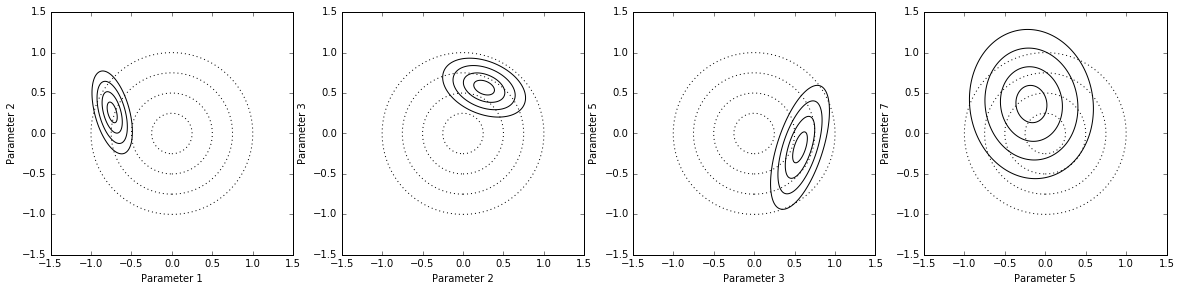
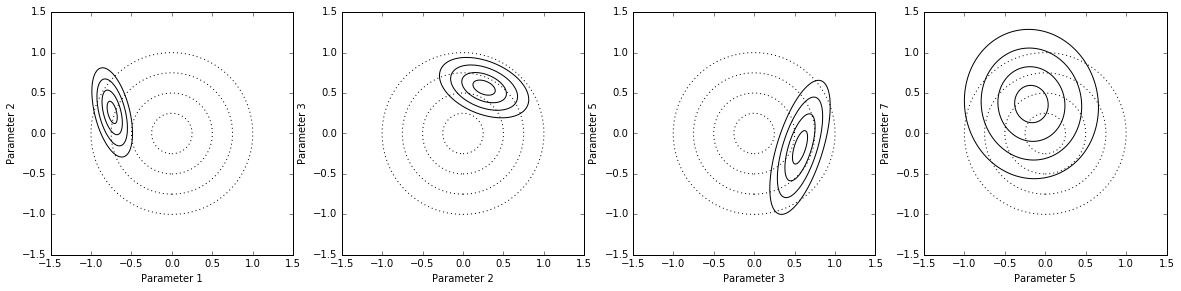
Updated toy_model_example.ipynb to reflect fixed bug in Project.calculate_entropy()

diff --git a/searchindex.js b/searchindex.js
@@ -1,1 +1,1 @@
-Search.setIndex({docnames:["cantera","generic_chem","index","toy","toy_model_example"],envversion:50,filenames:["cantera.rst","generic_chem.rst","index.rst","toy.rst","toy_model_example.ipynb"],objects:{"":{cantera_utils:[1,2,0,"-"]},"cantera_chemistry_model.CanteraChemistryModel":{blank_chemistry:[1,1,1,""],get_model_parameter_info:[1,1,1,""],get_parameter:[1,1,1,""],initialize_chemistry:[1,1,1,""],perturb_parameter:[1,1,1,""],prepare_chemistry:[1,1,1,""],reset_model:[1,1,1,""],sensitivity:[1,1,1,""]},"toy.toy_model":{evaluate:[3,1,1,""],get_model_parameter_info:[3,1,1,""],get_parameter:[3,1,1,""],perturb_parameter:[3,1,1,""],reset_model:[3,1,1,""],sensitivity:[3,1,1,""]},cantera_chemistry_model:{CanteraChemistryModel:[1,0,1,""]},cantera_utils:{measurement_initialize:[1,3,1,""],measurement_initialize_pd:[1,3,1,""]},toy:{toy_app:[3,0,1,""],toy_initialize:[3,3,1,""],toy_model:[3,0,1,""]}},objnames:{"0":["py","class","Python class"],"1":["py","method","Python method"],"2":["py","module","Python module"],"3":["py","function","Python function"]},objtypes:{"0":"py:class","1":"py:method","2":"py:module","3":"py:function"},terms:{"00000e":4,"0000e":[3,4],"0001e":4,"00049e":4,"00981e":4,"05000e":4,"09it":4,"11956e":4,"11a":0,"11b":0,"11c":0,"11d":0,"16133e":4,"16324e":4,"18253e":4,"18617e":4,"19780e":4,"1a1":0,"1a2":0,"1a3":0,"1a4":0,"1a5":0,"1a6":0,"21471e":4,"21546e":4,"21962e":4,"22021e":4,"22081e":4,"22140e":[3,4],"22200e":4,"22229e":4,"22260e":4,"22319e":4,"22337e":4,"22446e":4,"22554e":4,"22663e":4,"22678e":4,"22738e":4,"22771e":4,"22880e":4,"23643e":4,"24547e":4,"25769e":4,"26940e":4,"28247e":4,"29165e":4,"31a":0,"31b":0,"31it":4,"32979e":4,"33682e":4,"33it":4,"37it":4,"38205e":4,"46140e":4,"48009e":4,"48276e":4,"48544e":4,"48812e":4,"49079e":4,"49347e":4,"49616e":4,"51496e":4,"51it":4,"52381e":4,"57021e":4,"59627e":4,"5it":4,"60116e":4,"61686e":4,"64070e":4,"64631e":4,"64711e":4,"64792e":4,"64872e":4,"64953e":4,"65033e":4,"65114e":4,"65115e":4,"65679e":4,"68121e":4,"69770e":4,"73116e":4,"7580e":4,"7581e":4,"7619e":4,"76252e":4,"8557e":4,"90289e":4,"9035e":4,"9274e":4,"9516e":4,"99512e":4,"9998e":4,"9999e":4,"abstract":1,"case":2,"class":2,"default":0,"final":[],"float":[1,3],"function":2,"int":[1,3],"new":[],"public":2,"return":[1,3],"true":[1,3],"while":2,For:0,Its:[],Not:[],One:[2,3],Such:[],The:[1,2,4],Then:[],There:[0,3],These:[0,1],a_term:[],aa35fc590191:[],abl:2,about:[1,3],abov:3,access:1,act:4,activ:1,active_paramet:4,active_parameter_uncertainti:4,actual:4,add:0,added:0,addit:[0,1,3],adventur:2,after:[],against:2,air:0,algorithm:[],all:[0,1,3,4],allow:3,almost:3,along:3,alpha:4,alreadi:[3,4],also:[0,1,2,3],altern:[],although:0,among:[],amount:[1,3],analys:[],analysi:[0,1,2,3],ani:[0,1,3],anoth:3,apo:[],app_initialize_funct:[],appear:0,applic:[2,3,4],application_initi:[3,4],application_list:[3,4],arair:0,arbitrari:0,argon:0,argument:3,arrai:[1,3,4],array_lik:1,associ:3,assum:[],asterisk:0,atmospher:[0,1],attribut:[],author:2,automat:[],avail:[1,3],axi:[],b_term:[],back:[],backward:0,base:[0,1,2],batch:[1,3],becaus:[1,3,4],been:3,begin:3,behavior:0,behind:[],being:[2,3],below:0,between:[],bind:2,blank:0,blank_chemistri:1,bodi:1,bool:[],both:4,bound:3,box:2,build:3,c2h2:0,c2h6:0,c3h8:0,c_term:[],calcul:[1,3],calculate_entropi:[],call:[0,1,3,4],can:[0,1,2,3],cannot:[1,2],cantera:2,cantera_chemistry_model:1,cantera_util:1,canterachemistrymodel:[0,1],certain:[0,1],ch4:0,chang:[0,1,2,3],charact:3,check:1,chemistri:2,chemistry_model:[0,1],cite:2,closer:3,code:2,coeffici:[],column:3,common:[0,1],compar:3,compat:0,compil:2,complet:[2,3],complex:2,composit:1,comput:[],computed_unc:[],conc:0,condit:0,conduct:0,consequ:3,consid:1,consist:0,constant:0,constrain:[0,2,3,4],constraint:0,contain:[0,1,3],continu:[],convert:1,correspond:[0,3],corrspond:[],cov:[],cov_x:[],covari:[],covariance_x:[],creat:[0,1,2],creation:[],crit:0,crit_denom:0,crit_id:[],crit_numer:[],crit_spec:0,crit_val:0,criterion:[],critic:0,critical_funct:[],critical_last:[],critical_ris:[],critical_speci:0,critical_species_product:[],critical_valu:[],cti:0,current:[],cutoff:[],d_term:[],data:3,databas:[0,1,2,3],datafram:1,david:2,decomposit:[],defin:[0,1,2],definit:0,demonstr:[0,2,3],denom:0,denomin:0,densiti:[],depend:[0,3],deriv:3,describ:3,descript:[],design:[0,2,3],detail:2,detect:2,determin:[0,2,3],develop:[2,3],dict:[1,3],dictionari:3,differ:[0,3],dil:0,diluent:0,directli:3,disk:[],distribut:2,divid:[],document:[2,3],doe:[0,1,2],doesn:4,domain:2,domain_length:[],done:[],download:2,dtype:[3,4],dure:[1,3],each:[0,1,3,4],easier:1,effici:[1,2],either:0,element:[],els:1,employe:2,empti:3,enclos:0,energi:1,enough:0,ensur:0,entir:3,entiti:3,entropi:4,equal:3,equat:3,equival:[0,3,4],eras:1,eratur:0,erimental_:0,error:3,ertainti:0,especi:[],estim:4,etc:0,evalu:[0,1,3],evaluate_respons:[],evaluate_sensit:4,evaluate_uncertainti:[],event:[],ever:[],exactli:[0,4],exampl:2,excel:[0,1,3],except:[0,3],exist:1,exp:0,exp_unc:0,exp_val:0,experi:[0,3,4],experiment:[0,1,2,3],experiment_numb:[3,4],expert:2,explain:3,ext:[],extern:[],factor:[1,3],factors_list:4,fall:0,fals:[1,4],februari:2,fig:4,file:[1,2,3],file_with_my_appl:[],file_with_my_measur:[],filenam:[1,3],find:0,find_active_paramet:[3,4],find_sensit:[3,4],first:0,five:3,fix:4,flag:[],flame:[1,2],flame_spe:[],flamespe:0,fls:0,flux:4,follow:[0,1,2,3],form:[0,3],found:2,fraction:0,fration:[],free:0,freeflam:0,freeform:3,freeli:0,from:[0,2,3],fuel1:0,fuel2:0,fuel3:0,fuel4:0,fuel:0,func:[],gas:[0,1],gener:[2,3],generic_critical_funct:[],get:[1,3],get_ipython:[],get_model_parameter_info:[1,3,4],get_paramet:[1,3],get_parameter_info:3,github:2,give:[0,3],given:[0,3],gradient:[],greater:[],gri30:0,grid:[],guarante:3,halv:[],hard:3,has:[2,3],have:[0,1,3,4],header:[0,3],here:[],heterogen:2,high:1,highli:2,highlight:3,home:2,hopefulli:2,host:3,how:[0,2,3],howev:[],ical_:0,idealgasreactor:[],ident:3,identifi:[0,1,2,3],ies:0,ign:0,ignit:[],ignor:0,ignore_restart:[],imagin:3,impact:[],implement:[0,1,2],importerror:[],inat:0,includ:1,inconsist:[2,4],index:2,ineffici:[],inform:[1,3,4],inital_timestep:[],initalize_reactor:[],initi:2,initial_covari:[],initial_guess:[],initial_point:[],initial_timestep:[],initial_x:[],initialize_chemistri:1,initialize_funct:[3,4],initialize_reactor:1,inlin:4,input:[],insofar:[],instanc:0,instanti:[1,3],instead:2,institut:2,integr:0,integration_tim:[],intend:[0,2,3],intent:[],interact:3,interfac:2,intern:1,intial:[],ipython:[],item:[],iter:[3,4],ith:[],its:[1,2,3,4],joint:[],js2:0,keep_go:[],kei:[1,3],kelvin:[0,1],keyword:0,kind:0,kinet:2,know:2,known:3,laminar:2,larg:[],last:2,later:[],least:0,left:0,len:[],length:[],less:0,let:2,level:[],levenberg:[],licens:2,like:[0,3],limit:1,line:[],linear:[],list:[0,1,3,4],load:[],load_restart:[],log:[1,3],logarithm:[],logfil:[1,3],logic:[],loglevel:[3,4],look:3,low:[1,4],lower:3,magic:[],mai:[0,2],make:[1,2],make_respons:4,mani:[],manion:2,mark:0,marquardt:[],matplotlib:4,matrix:3,matter:0,maxim:[],maximum:0,mdlunc:4,mdlval:4,mea:4,mean:2,measur:[0,1,2],measurement_initi:[1,3,4],measurement_initialize_pd:[0,1],measurement_list:[3,4],member:[1,3],metadata:3,meter:[],method:0,methodolog:2,microsecond:[],might:2,mimic:[],mixtur:0,model:2,model_parameter_info:[1,3],model_valu:[1,3],modif:2,modifi:[0,1,2,3],modul:2,mole:0,more:[2,4],most:[3,4],move:[],much:4,multipl:2,mum:2,mumpc:[3,4],mumpce_pi:4,mumpce_toy_app:[3,4],mumpce_toy_experi:[3,4],must:[0,1,3],mxylen:0,my_app:3,my_appl:[],my_initi:[],my_measur:3,my_model:[3,4],my_project:[3,4],my_project_with_init:4,my_uncertainti:[],name:[0,2,3,4],nation:2,ndarrai:1,necessari:2,need:0,neg:0,network:[],new_valu:1,nist:2,nitrogen:0,no_effici:1,no_energi:1,no_falloff:1,nomin:3,none:[0,1,3],normal:[1,3,4],note:2,now:3,npz:[],number:[0,1,3],number_paramet:[],numer:[0,3],numpi:4,object:[0,1,3,4],occur:0,off:[],often:2,omit:0,onc:3,one:[0,3],onli:[0,3],optim:[2,3],optimal_timestep:[],option:0,optunc:4,optval:4,order:[0,2,3],organ:2,origin:[1,2,3],other:[0,1,2,3],otherwis:0,out:[2,4],outlier:[2,3,4],output:[1,2,3],outsid:[],over:4,overwritten:[],own:2,oxid:0,oxygen:0,packag:[1,2],page:2,pair:[0,3],panda:1,paper:2,parallel:[],param:[3,4],paramet:[0,1,2,3],parameter_id:[1,3],parameter_list:[1,3],parameter_nam:[3,4],parameter_numb:[3,4],parameter_uncertainti:[3,4],parameter_valu:[1,3],parametr:[],paremet:[],parenthes:0,pars:[0,3],parser:0,part:[],particular:[0,2,3],pass:[],patm:1,pc3h4:0,pce:2,per:0,perform:[],permit:1,perturb:[1,3,4],perturb_paramet:[1,3],phase:[0,1],physic:2,piec:3,placehold:4,pleas:2,plot:[],plot_pdf:4,point:3,polynomi:[],poorli:3,popul:[],posit:0,possibl:[2,3],pre:0,precis:[],predict:4,prepare_chemistri:1,preposter:4,preseint:0,present:[0,2],pressur:[0,1],pressure_ris:[],previou:0,print:[3,4],prior:3,pro:0,probabl:2,problem:[],procedur:[],process:1,produc:[],product:0,profil:2,program:[2,3],project:2,propag:0,provid:[0,1,2,3],pul:0,python:2,rate:0,ratio:4,reach:0,reactant:0,reaction:[0,1,2],reactor:[0,1],reactor_model:[],read:[0,1,3],readi:3,real:0,reason:4,recent:[],recogn:0,redefin:[],reduct:4,rel:4,relev:3,remov:4,remove_inconsistent_measur:[3,4],remove_low_information_measur:[3,4],repeat:[],replac:[],repo:2,repres:[2,3],requir:[0,1],reset:[1,3],reset_model:[1,3],respect:[1,3],respons:[2,3],response_gradi:[],response_perturb:[],response_surfac:[],response_typ:[],response_uncertainti:[],response_valu:[],responsesurfac:[],restart:[],result:[],retriev:[1,3],retriv:[],revis:2,rise:0,row:[0,3],rth:[],run:3,run_optim:[3,4],sacrif:2,same:[0,4],satisfi:[],satisifi:[],save:[],save_restart:[],savefil:[],score:4,scratch:[],screen:3,search:2,second:0,second_order_x:[],see:1,seen:0,self:1,sens_cutoff:3,sensit:[0,1,3],sensitivity_analysis_bas:[],sensitivity_cutoff:[],sensitivity_list:[],sensitivity_respons:[],sensitivity_vector:[1,3],separ:[],set:[0,1,3],set_active_paramet:[3,4],sever:[],sheen:2,shock:2,shock_tub:[],shock_tube_bas:[],shock_tube_delai:[],shock_tube_util:[],shocktub:[],shocktubeconcentr:0,shocktubedelai:0,shocktuberatio:0,should:[0,2],show:3,shown:3,sim:0,simpl:[2,3],simul:[0,1,3],singl:3,size:[],small:[],smaller:3,softwar:2,soln:[],solut:[1,2,3,4],solution_nam:[],solution_x:[],solv:[0,2],solver:[],some:[0,3],somehow:0,sort:2,space:[],spec:0,speci:[],specif:2,specifi:[0,1,3],speed:2,spreadsheet:[],squar:4,standard:[0,2],state:[0,1],statedefinit:0,stop:[],store:[],str:[1,3],string:1,strongli:2,structur:[],subclass:1,subject:2,substanc:0,success:2,suitabl:[],sum:[0,4],summari:2,suppli:[],support:2,suppress:4,sure:0,surfac:[2,3],surrog:0,system:3,take:[0,3],target:3,target_concentr:[],tbpo:0,technolog:2,tell:[],temp:0,temper:0,temperatur:[0,1],templat:[],term:3,text:[0,1,3],than:0,thei:[0,1],them:[],thermodynam:1,thi:[0,1,2,3,4],thing:2,third:1,those:[0,3],three:3,through:[0,3],thu:3,time:[1,3],timestep:[],tmbenz:0,todo:[],toi:[0,2,4],too:[],tool:[],top:[],total:0,toy_app:[3,4],toy_initi:[3,4],toy_measur:[3,4],toy_model:4,traceback:[],track:0,triangular:[],tube:2,tupl:[],turn:[],tutori:[],two:[0,2],type:[0,1,3],typic:[],ulat:0,unburn:[0,1],unc:[0,4],uncertain:[],uncertainti:[0,3],under:0,uniqu:3,uniti:0,until:0,upper:3,usag:[2,3],usc:2,use:[0,2,3],used:[0,1,2,3],useful:2,user:2,uses:0,using:[],usual:[1,3],val:0,valid:0,validate_solut:[],valu:[0,1,3,4],vari:[],variat:[],vector:3,verbos:[],veri:[],version:[],volum:0,wai:[2,3],wang:2,warranti:2,weight:4,welcom:2,well:[],what:0,when:[0,3],where:[0,3],whether:3,which:[0,1,2,3],whole:[],whose:[0,3],wire:3,wise:[],within:[],without:3,work:[],workflow:3,world:0,worst:2,would:[1,3],written:2,x_fuel1:0,x_fuel2:0,x_fuel3:0,x_fuel:0,xfuel4:0,xlen:[],xlsx:[3,4],xml:0,you:[1,2],your:2,zero:3,zero_term:[]},titles:["The Cantera interface to MUM-PCE","Generic chemistry interface for Cantera","Method of Uncertainty Minimization using Polynomial Chaos Expansions","A toy example using MUM-PCE","Example usage and output"],titleterms:{"class":[0,1,3],"function":[0,1,3],"import":4,The:[0,3],activ:4,analysi:4,base:[],cantera:[0,1],chao:2,chemistri:[0,1],column:0,concentr:0,consist:4,content:[0,2],creat:[3,4],critic:[],data:0,defin:3,delai:0,design:4,directli:4,evalu:4,exampl:[0,3,4],exist:3,expans:2,experiment:4,file:0,flame:0,gener:[0,1],ignit:0,indic:2,initi:[0,1,3,4],interfac:[0,1],laminar:0,legal:2,link:2,measur:[3,4],method:[1,2,3],minim:2,model:[0,1,3,4],mum:[0,3],output:4,paramet:4,pce:[0,3],polynomi:2,profil:0,project:[3,4],ratio:0,respons:4,responsesurfac:[],sensit:4,shock:0,solut:[],solv:[3,4],speci:0,speed:0,summari:[0,1,3],surfac:4,tabl:2,time:0,toi:3,toy_model:3,tube:0,uncertainti:[2,4],usag:4,using:[2,3],within:[3,4]}})
+Search.setIndex({docnames:[".ipynb_checkpoints/toy_model_example-checkpoint","index","toy","toy_model_example"],envversion:50,filenames:[".ipynb_checkpoints/toy_model_example-checkpoint.ipynb","index.rst","toy.rst","toy_model_example.ipynb"],objects:{"toy.toy_model":{evaluate:[2,2,1,""],get_model_parameter_info:[2,2,1,""],get_parameter:[2,2,1,""],perturb_parameter:[2,2,1,""],reset_model:[2,2,1,""],sensitivity:[2,2,1,""]},toy:{toy_app:[2,0,1,""],toy_initialize:[2,1,1,""],toy_model:[2,0,1,""]}},objnames:{"0":["py","class","Python class"],"1":["py","function","Python function"],"2":["py","method","Python method"]},objtypes:{"0":"py:class","1":"py:function","2":"py:method"},terms:{"00000e":[0,3],"0000e":[0,2,3],"0001e":[0,3],"00049e":[0,3],"00981e":[0,3],"05000e":[0,3],"09it":[],"11956e":[0,3],"11a":[],"11b":[],"11c":[],"11d":[],"16133e":[0,3],"16324e":[0,3],"18253e":[0,3],"18617e":[0,3],"19780e":[0,3],"1a1":[],"1a2":[],"1a3":[],"1a4":[],"1a5":[],"1a6":[],"21471e":[0,3],"21546e":[0,3],"21962e":[0,3],"22021e":[0,3],"22081e":[0,3],"22140e":[0,2,3],"22200e":[0,3],"22229e":[0,3],"22260e":[0,3],"22319e":[0,3],"22337e":[0,3],"22446e":[0,3],"22554e":[0,3],"22663e":[0,3],"22678e":[0,3],"22738e":[0,3],"22771e":[0,3],"22880e":[0,3],"23643e":[0,3],"24547e":[0,3],"25769e":[0,3],"26940e":[0,3],"28247e":[0,3],"29165e":[0,3],"31a":[],"31b":[],"31it":[],"32979e":[0,3],"33682e":[0,3],"33it":[],"34it":[0,3],"37it":[],"38205e":[0,3],"40it":[0,3],"43it":[0,3],"46140e":[0,3],"48009e":[0,3],"48276e":[0,3],"48544e":[0,3],"48812e":[0,3],"49079e":[0,3],"49347e":[0,3],"49616e":[0,3],"51496e":[0,3],"51it":[],"52381e":[0,3],"57021e":[0,3],"59627e":[0,3],"5it":[0,3],"60116e":[0,3],"61686e":[0,3],"64070e":[0,3],"64631e":[0,3],"64711e":[0,3],"64792e":[0,3],"64872e":[0,3],"64953e":[0,3],"65033e":[0,3],"65114e":[0,3],"65115e":[0,3],"65679e":[0,3],"68121e":[0,3],"69770e":[0,3],"71it":[0,3],"72it":[0,3],"73116e":[0,3],"7580e":[0,3],"7581e":[0,3],"7619e":[0,3],"76252e":[0,3],"8557e":[0,3],"90289e":[0,3],"9035e":[0,3],"9274e":[0,3],"9516e":[0,3],"99512e":[0,3],"9998e":[0,3],"9999e":[0,3],"abstract":[],"case":1,"class":1,"default":[],"final":[],"float":2,"function":1,"int":2,"new":[],"public":1,"return":2,"true":2,"while":1,For:[],Its:[],Not:[],One:[1,2],Such:[],The:[0,1,3],Then:[],There:2,These:[],a_term:[],aa35fc590191:[],abl:1,about:2,abov:2,access:[],act:[0,3],activ:[],active_paramet:[0,3],active_parameter_uncertainti:[0,3],actual:[0,3],add:[],added:[],addit:2,adventur:1,after:[],against:1,air:[],algorithm:[],all:[0,2,3],allow:2,almost:2,along:2,alpha:[0,3],alreadi:[0,2,3],also:[1,2],altern:[],although:[],among:[],amount:2,analys:[],analysi:[1,2],ani:2,anoth:2,apo:[],app_initialize_funct:[],appear:[],applic:[0,1,2,3],application_initi:[0,2,3],application_list:[0,2,3],arair:[],arbitrari:[],argon:[],argument:2,arrai:[0,2,3],array_lik:[],associ:2,assum:[],asterisk:[],atmospher:[],attribut:[],author:1,automat:[],avail:2,axi:[],b_term:[],back:[],backward:[],base:1,batch:2,becaus:[0,2,3],been:2,begin:2,behavior:[],behind:[],being:[1,2],below:[],between:[],bind:1,blank:[],blank_chemistri:[],bodi:[],bool:[],both:[0,3],bound:2,box:1,build:2,c2h2:[],c2h6:[],c3h8:[],c_term:[],calcul:2,calculate_entropi:[],call:[0,2,3],can:[1,2],cannot:1,cantera:1,cantera_chemistry_model:[],cantera_util:[],canterachemistrymodel:[],certain:[],ch4:[],chang:[1,2],charact:2,check:[],chemistri:1,chemistry_model:[],cite:1,closer:2,code:1,coeffici:[],column:2,common:[],compar:2,compat:[],compil:1,complet:[1,2],complex:1,composit:[],comput:[],computed_unc:[],conc:[],condit:[],conduct:[],consequ:2,consid:[],consist:[],constant:[],constrain:[0,1,2,3],constraint:[],contain:2,continu:[],convert:[],correspond:2,corrspond:[],cov:[],cov_x:[],covari:[],covariance_x:[],creat:1,creation:[],crit:[],crit_denom:[],crit_id:[],crit_numer:[],crit_spec:[],crit_val:[],criterion:[],critic:[],critical_funct:[],critical_last:[],critical_ris:[],critical_speci:[],critical_species_product:[],critical_valu:[],cti:[],current:[],cutoff:[],d_term:[],data:2,databas:[1,2],datafram:[],david:1,decomposit:[],defin:1,definit:[],demonstr:[1,2],denom:[],denomin:[],densiti:[],depend:2,deriv:2,describ:2,descript:[],design:[1,2],detail:1,detect:1,determin:[1,2],develop:[1,2],dict:2,dictionari:2,differ:2,dil:[],diluent:[],directli:2,disk:[],distribut:1,divid:[],document:[1,2],doe:1,doesn:[0,3],domain:1,domain_length:[],done:[],download:1,dtype:[0,2,3],dure:2,each:[0,2,3],easier:[],effici:1,either:[],element:[],els:[],employe:1,empti:2,enclos:[],energi:[],enough:[],ensur:[],entir:2,entiti:2,entropi:[0,3],equal:2,equat:2,equival:[0,2,3],eras:[],eratur:[],erimental_:[],error:2,ertainti:[],especi:[],estim:[0,3],etc:[],evalu:2,evaluate_respons:[],evaluate_sensit:[0,3],evaluate_uncertainti:[],event:[],ever:[],exactli:[0,3],exampl:1,excel:2,except:2,exist:[],exp:[],exp_unc:[],exp_val:[],experi:[0,2,3],experiment:[1,2],experiment_numb:[0,2,3],expert:1,explain:2,ext:[],extern:[],factor:2,factors_list:[0,3],fall:[],fals:[0,3],februari:1,fig:[0,3],file:[1,2],file_with_my_appl:[],file_with_my_measur:[],filenam:2,find:[],find_active_paramet:[0,2,3],find_sensit:[0,2,3],first:[],five:2,fix:[0,3],flag:[],flame:1,flame_spe:[],flamespe:[],fls:[],flux:[0,3],follow:[1,2],form:2,found:1,fraction:[],fration:[],free:[],freeflam:[],freeform:2,freeli:[],from:[1,2],fuel1:[],fuel2:[],fuel3:[],fuel4:[],fuel:[],func:[],gas:[],gener:[1,2],generic_critical_funct:[],get:2,get_ipython:[],get_model_parameter_info:[0,2,3],get_paramet:2,get_parameter_info:2,github:1,give:2,given:2,gradient:[],greater:[],gri30:[],grid:[],guarante:2,halv:[],hard:2,has:[1,2],have:[0,2,3],header:2,here:[],heterogen:1,high:[],highli:1,highlight:2,home:1,hopefulli:1,host:2,how:[1,2],howev:[],ical_:[],idealgasreactor:[],ident:2,identifi:[1,2],ies:[],ign:[],ignit:[],ignor:[],ignore_restart:[],imagin:2,impact:[],implement:1,importerror:[],inat:[],includ:[],inconsist:[0,1,3],index:1,ineffici:[],inform:[0,2,3],inital_timestep:[],initalize_reactor:[],initi:1,initial_covari:[],initial_guess:[],initial_point:[],initial_timestep:[],initial_x:[],initialize_chemistri:[],initialize_funct:[0,2,3],initialize_reactor:[],inlin:[0,3],input:[],insofar:[],instanc:[],instanti:2,instead:1,institut:1,integr:[],integration_tim:[],intend:[1,2],intent:[],interact:2,interfac:1,intern:[],intial:[],ipython:[],item:[],iter:[0,2,3],ith:[],its:[0,1,2,3],joint:[],js2:[],keep_go:[],kei:2,kelvin:[],keyword:[],kind:[],kinet:1,know:1,known:2,laminar:1,larg:[],last:1,later:[],least:[],left:[],len:[],length:[],less:[],let:1,level:[],levenberg:[],licens:1,like:2,limit:[],line:[],linear:[],list:[0,2,3],load:[],load_restart:[],log:2,logarithm:[],logfil:2,logic:[],loglevel:[0,2,3],look:2,low:[0,3],lower:2,magic:[],mai:1,make:1,make_respons:[0,3],mani:[],manion:1,mark:[],marquardt:[],matplotlib:[0,3],matrix:2,matter:[],maxim:[],maximum:[],mdlunc:[0,3],mdlval:[0,3],mea:[0,3],mean:1,measur:1,measurement_initi:[0,2,3],measurement_initialize_pd:[],measurement_list:[0,2,3],member:2,metadata:2,meter:[],method:[],methodolog:1,microsecond:[],might:1,mimic:[],mixtur:[],model:1,model_parameter_info:2,model_valu:2,modif:1,modifi:[1,2],modul:1,mole:[],more:[0,1,3],most:[0,2,3],move:[],much:[0,3],multipl:1,mum:1,mumpc:[0,2,3],mumpce_pi:[0,3],mumpce_toy_app:[0,2,3],mumpce_toy_experi:[0,2,3],must:2,mxylen:[],my_app:2,my_appl:[],my_initi:[],my_measur:2,my_model:[0,2,3],my_project:[0,2,3],my_project_with_init:[0,3],my_uncertainti:[],name:[0,1,2,3],nation:1,ndarrai:[],necessari:1,need:[],neg:[],network:[],new_valu:[],nist:1,nitrogen:[],no_effici:[],no_energi:[],no_falloff:[],nomin:2,none:2,normal:[0,2,3],note:1,now:2,npz:[],number:2,number_paramet:[],numer:2,numpi:[0,3],object:[0,2,3],occur:[],off:[],often:1,omit:[],onc:2,one:2,onli:2,optim:[1,2],optimal_timestep:[],option:[],optunc:[0,3],optval:[0,3],order:[1,2],organ:1,origin:[1,2],other:[1,2],otherwis:[],out:[0,1,3],outlier:[0,1,2,3],output:[1,2],outsid:[],over:[0,3],overwritten:[],own:1,oxid:[],oxygen:[],packag:1,page:1,pair:2,panda:[],paper:1,parallel:[],param:[0,2,3],paramet:[1,2],parameter_id:2,parameter_list:2,parameter_nam:[0,2,3],parameter_numb:[0,2,3],parameter_uncertainti:[0,2,3],parameter_valu:2,parametr:[],paremet:[],parenthes:[],pars:2,parser:[],part:[],particular:[1,2],pass:[],patm:[],pc3h4:[],pce:1,per:[],perform:[],permit:[],perturb:[0,2,3],perturb_paramet:2,phase:[],physic:1,piec:2,placehold:[0,3],pleas:1,plot:[],plot_pdf:[0,3],point:2,polynomi:[],poorli:2,popul:[],posit:[],possibl:[1,2],pre:[],precis:[],predict:[0,3],prepare_chemistri:[],preposter:[0,3],preseint:[],present:1,pressur:[],pressure_ris:[],previou:[],print:[0,2,3],prior:2,pro:[],probabl:1,problem:[],procedur:[],process:[],produc:[],product:[],profil:1,program:[1,2],project:1,propag:[],provid:[1,2],pul:[],python:1,rate:[],ratio:[0,3],reach:[],reactant:[],reaction:1,reactor:[],reactor_model:[],read:2,readi:2,real:[],reason:[0,3],recent:[],recogn:[],redefin:[],reduct:[0,3],rel:[0,3],relev:2,remov:[0,3],remove_inconsistent_measur:[0,2,3],remove_low_information_measur:[0,2,3],repeat:[],replac:[],repo:1,repres:[1,2],requir:[],reset:2,reset_model:2,respect:2,respons:[1,2],response_gradi:[],response_perturb:[],response_surfac:[],response_typ:[],response_uncertainti:[],response_valu:[],responsesurfac:[],restart:[],result:[],retriev:2,retriv:[],revis:1,rise:[],row:2,rth:[],run:2,run_optim:[0,2,3],sacrif:1,same:[0,3],satisfi:[],satisifi:[],save:[],save_restart:[],savefil:[],score:[0,3],scratch:[],screen:2,search:1,second:[],second_order_x:[],see:[],seen:[],self:[],sens_cutoff:2,sensit:2,sensitivity_analysis_bas:[],sensitivity_cutoff:[],sensitivity_list:[],sensitivity_respons:[],sensitivity_vector:2,separ:[],set:2,set_active_paramet:[0,2,3],sever:[],sheen:1,shock:1,shock_tub:[],shock_tube_bas:[],shock_tube_delai:[],shock_tube_util:[],shocktub:[],shocktubeconcentr:[],shocktubedelai:[],shocktuberatio:[],should:1,show:2,shown:2,sim:[],simpl:[1,2],simul:2,singl:2,size:[],small:[],smaller:2,softwar:1,soln:[],solut:[0,1,2,3],solution_nam:[],solution_x:[],solv:1,solver:[],some:2,somehow:[],sort:1,space:[],spec:[],speci:[],specif:1,specifi:2,speed:1,spreadsheet:[],squar:[0,3],standard:1,state:[],statedefinit:[],stop:[],store:[],str:2,string:[],strongli:1,structur:[],subclass:[],subject:1,substanc:[],success:1,suitabl:[],sum:[0,3],summari:1,suppli:[],support:1,suppress:[0,3],sure:[],surfac:[1,2],surrog:[],system:2,take:2,target:2,target_concentr:[],tbpo:[],technolog:1,tell:[],temp:[],temper:[],temperatur:[],templat:[],term:2,text:2,than:[],thei:[],them:[],thermodynam:[],thi:[0,1,2,3],thing:1,third:[],those:2,three:2,through:2,thu:2,time:2,timestep:[],tmbenz:[],todo:[],toi:[0,1,3],too:[],tool:[],top:[],total:[],toy_app:[0,2,3],toy_initi:[0,2,3],toy_measur:[0,2,3],toy_model:[0,3],traceback:[],track:[],triangular:[],tube:1,tupl:[],turn:[],tutori:[],two:1,type:2,typic:[],ulat:[],unburn:[],unc:[0,3],uncertain:[],uncertainti:2,under:[],uniqu:2,uniti:[],until:[],upper:2,usag:[1,2],usc:1,use:[1,2],used:[1,2],useful:1,user:1,uses:[],using:[],usual:2,val:[],valid:[],validate_solut:[],valu:[0,2,3],vari:[],variat:[],vector:2,verbos:[],veri:[],version:[],volum:[],wai:[1,2],wang:1,warranti:1,weight:[0,3],welcom:1,well:[],what:[],when:2,where:2,whether:2,which:[1,2],whole:[],whose:2,wire:2,wise:[],within:[],without:2,work:[],workflow:2,world:[],worst:1,would:2,written:1,x_fuel1:[],x_fuel2:[],x_fuel3:[],x_fuel:[],xfuel4:[],xlen:[],xlsx:[0,2,3],xml:[],you:1,your:1,zero:2,zero_term:[]},titles:["Example usage and output","Method of Uncertainty Minimization using Polynomial Chaos Expansions","A toy example using MUM-PCE","Example usage and output"],titleterms:{"class":2,"function":2,"import":[0,3],The:2,activ:[0,3],analysi:[0,3],base:[],cantera:[],chao:1,chemistri:[],column:[],concentr:[],consist:[0,3],content:1,creat:[0,2,3],critic:[],data:[],defin:2,delai:[],design:[0,3],directli:[0,3],evalu:[0,3],exampl:[0,2,3],exist:2,expans:1,experiment:[0,3],file:[],flame:[],gener:[],ignit:[],indic:1,initi:[0,2,3],interfac:[],laminar:[],legal:1,link:1,measur:[0,2,3],method:[1,2],minim:1,model:[0,2,3],mum:2,output:[0,3],paramet:[0,3],pce:2,polynomi:1,profil:[],project:[0,2,3],ratio:[],respons:[0,3],responsesurfac:[],sensit:[0,3],shock:[],solut:[],solv:[0,2,3],speci:[],speed:[],summari:2,surfac:[0,3],tabl:1,time:[],toi:2,toy_model:2,tube:[],uncertainti:[0,1,3],usag:[0,3],using:[1,2],within:[0,2,3]}})

diff --git a/toy_model_example.html b/toy_model_example.html
@@ -690,12 +690,12 @@ Experiment 5
 </div>
 <div class="stderr container">
 <div class="highlight"><pre>
-5it [00:00, 1375.09it/s]
-5it [00:00, 1502.37it/s]
-5it [00:00, 1532.33it/s]
-5it [00:00, 1572.31it/s]
-5it [00:00, 1545.09it/s]
-5it [00:00, 1683.51it/s]
+5it [00:00, 1482.40it/s]
+5it [00:00, 1551.72it/s]
+5it [00:00, 1568.43it/s]
+5it [00:00, 1434.34it/s]
+5it [00:00, 1717.71it/s]
+5it [00:00, 1478.43it/s]
 </pre></div></div>
 </div>
 <div class="nbinput container">
@@ -909,12 +909,24 @@ Experiment 4        :   0.70   0.08   0.70   0.08   0.80   0.62
 Experiment 5        :   0.40   0.80   1.11   0.31   0.50   0.62
 Application 1       :   0.00   0.00  -0.68   0.11   0.00   0.51
 Experiment 1        :   0.40   0.05  -0.15   0.08   0.20   0.62
-Experiment 2 Entropy flux   0.002025
-Experiment 3 Entropy flux   0.112731
-Experiment 4 Entropy flux   0.002400
-Experiment 5 Entropy flux   0.007757
+Experiment 2 Entropy flux   0.002021
+Experiment 3 Entropy flux   0.026705
+Experiment 4 Entropy flux   0.000073
+Experiment 5 Entropy flux  -0.000179
 Application 1 Entropy flux  -0.028620
-Experiment 1 Entropy flux  -0.096291
+Experiment 1 Entropy flux   0.000000
+Experiment 5 Entropy flux  -0.00
+Name                  Value  Unc    OptVal OptUnc MdlVal MdlUnc
+Experiment 2        :   0.25   0.05   0.24   0.05  -0.60   0.62
+Experiment 3        :   0.20   0.05   0.21   0.05   0.50   0.62
+Experiment 4        :   0.70   0.08   0.70   0.08   0.80   0.62
+Application 1       :   0.00   0.00  -0.68   0.11   0.00   0.51
+Experiment 1        :   0.40   0.05  -0.15   0.09   0.20   0.62
+Experiment 2 Entropy flux   0.001914
+Experiment 3 Entropy flux   0.026593
+Experiment 4 Entropy flux   0.000074
+Application 1 Entropy flux  -0.028582
+Experiment 1 Entropy flux   0.000000
 No low-information measurements
 </pre></div></div>
 </div>
@@ -933,11 +945,11 @@ No low-information measurements
 </div>
 <div class="container">
 <div class="highlight"><pre>
-[[ 0.12479468  0.          0.          0.          0.        ]
- [-0.12013267  0.22624567  0.          0.          0.        ]
- [-0.10457956 -0.12695211  0.07784912  0.          0.        ]
- [ 0.05268069 -0.3544285   0.01919642  0.13432677  0.        ]
- [ 0.39559594  0.06070328 -0.1889603  -0.04967127  0.11964893]]
+[[ 0.12547508  0.          0.          0.          0.        ]
+ [-0.13014049  0.24328481  0.          0.          0.        ]
+ [-0.09975008 -0.13704602  0.07786079  0.          0.        ]
+ [ 0.0688092  -0.38530355  0.01937665  0.13471687  0.        ]
+ [ 0.39525824  0.06522259 -0.1889297  -0.04926863  0.11986361]]
 </pre></div></div>
 </div>
 </div>
